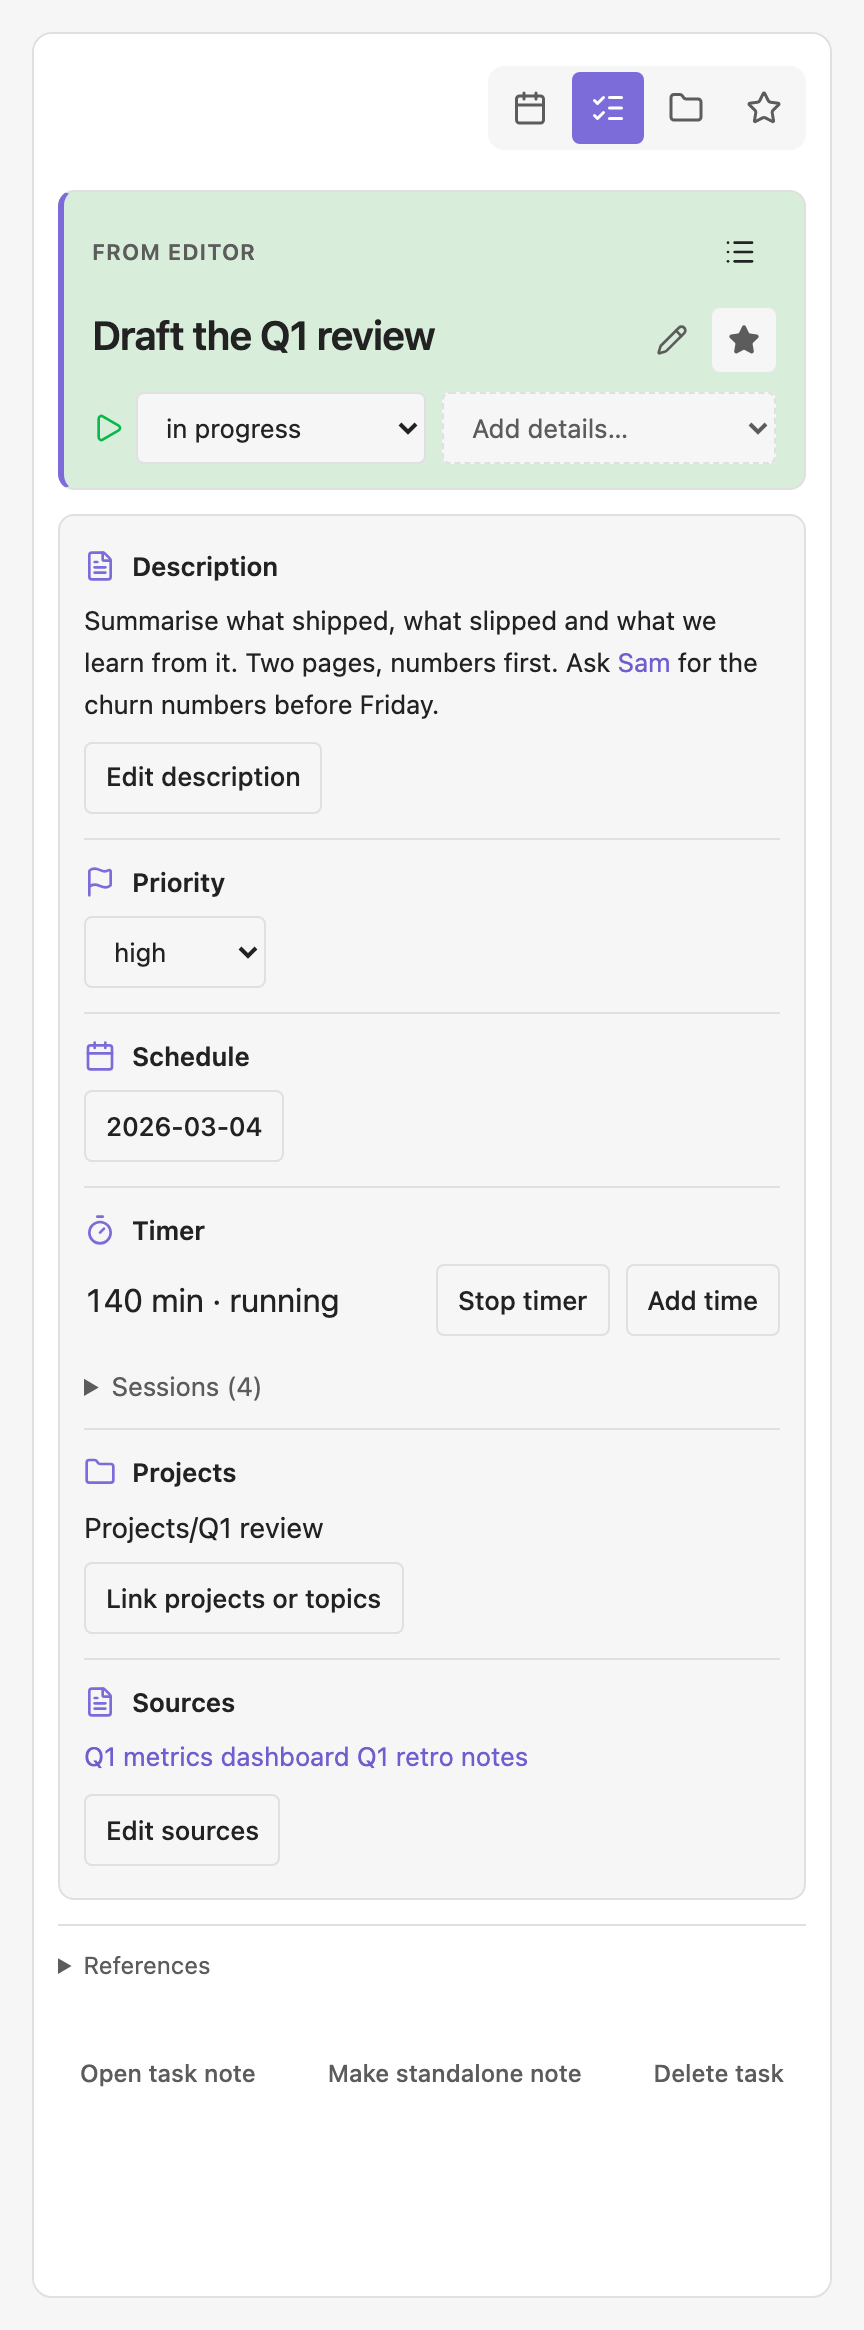
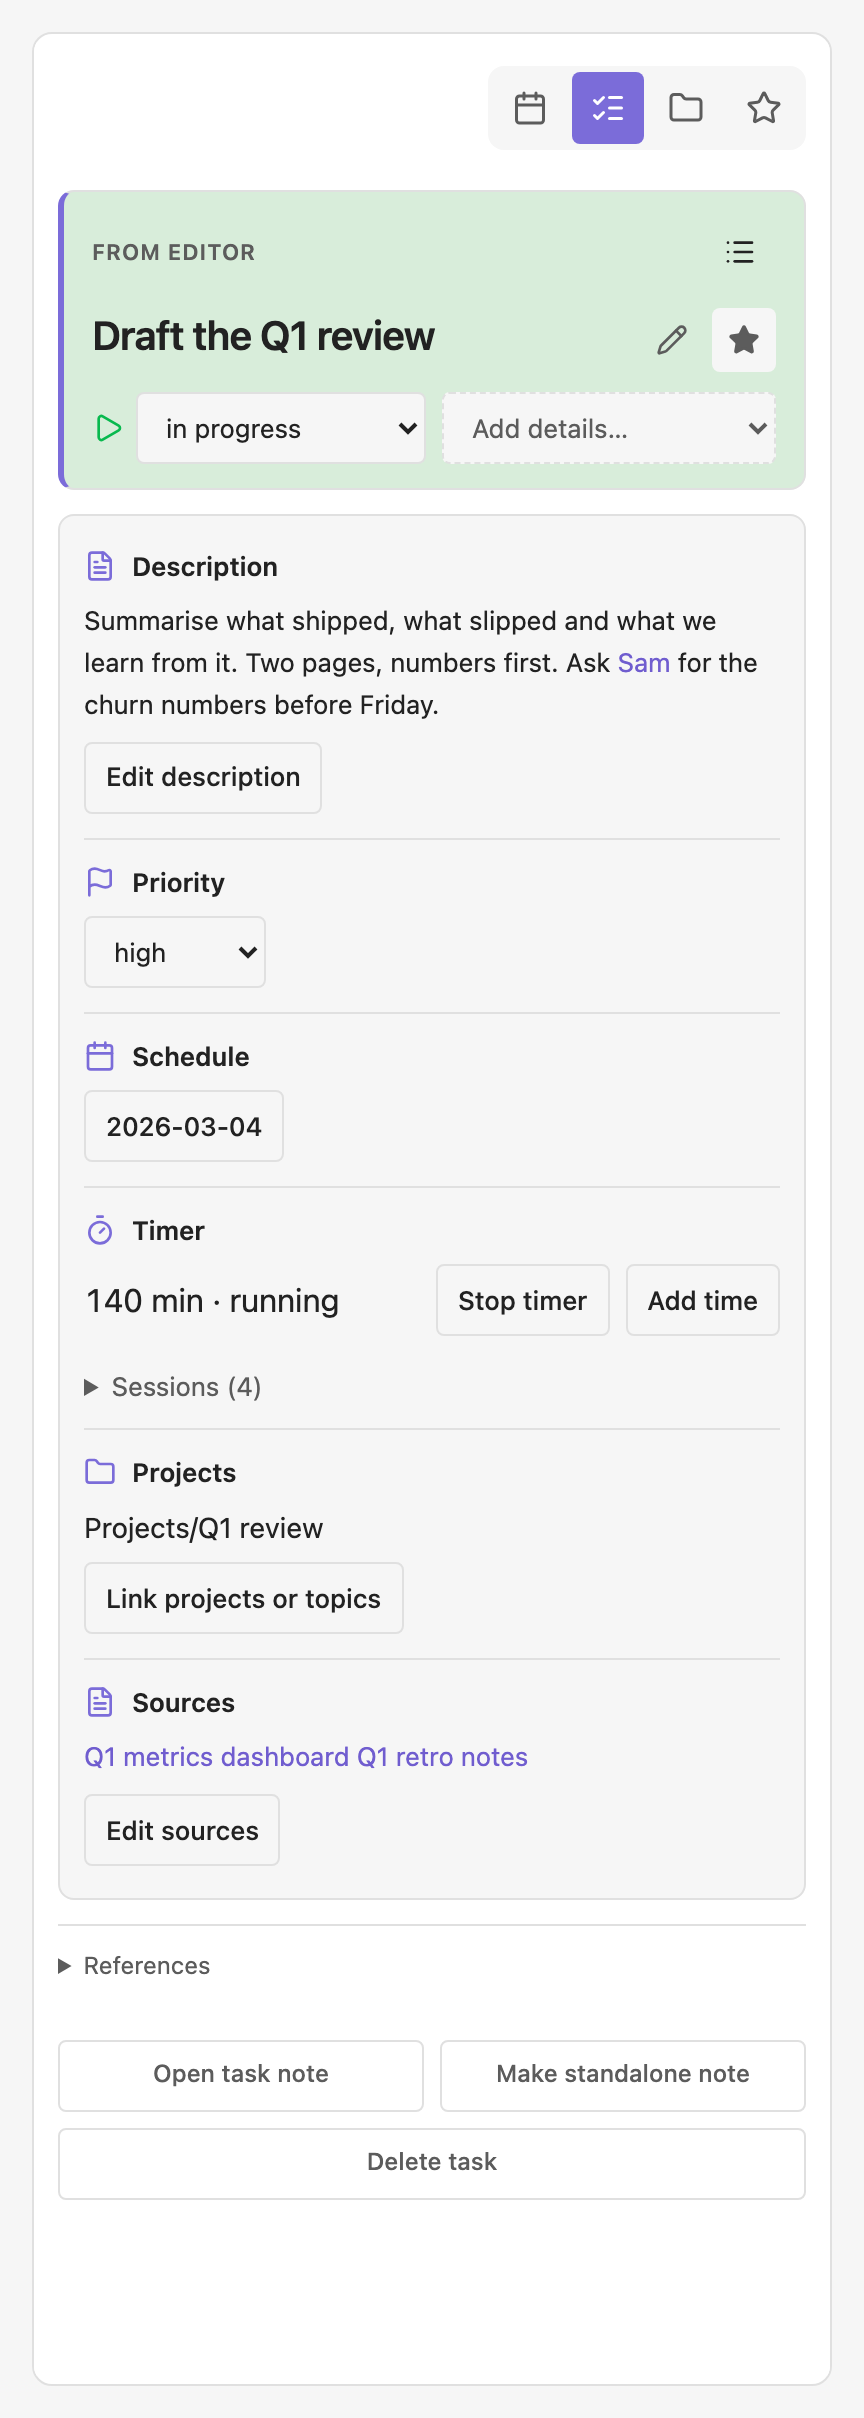
Lay out the task panel's bottom actions in an even grid

diff --git a/styles.css b/styles.css
@@ -149,7 +149,9 @@
 .organized-view .organized-panel button.organized-note-link:hover { color: var(--interactive-accent); }
 .organized-view .organized-panel button.organized-danger { border-color: transparent; color: var(--text-muted); font-size: 12px; }
 .organized-view .organized-panel button.organized-danger:hover { border-color: var(--text-error, #d64545); background: transparent; color: var(--text-error, #d64545); }
-.organized-task-actions { display: flex; flex-wrap: wrap; align-items: center; justify-content: space-between; gap: 8px; padding-block-start: 4px; }
+.organized-task-actions { display: grid; grid-template-columns: repeat(auto-fit, minmax(9.5rem, 1fr)); gap: 8px; padding-block-start: 4px; }
+.organized-view .organized-panel .organized-task-actions button { inline-size: 100%; justify-content: center; text-align: center; border-color: var(--background-modifier-border); }
+.organized-view .organized-panel .organized-task-actions button.organized-danger { grid-column: 1 / -1; }
 .organized-section { display: flex; flex-direction: column; gap: 8px; }
 .organized-section-head { display: flex; align-items: center; justify-content: space-between; gap: 8px; }
 .organized-view .organized-panel button.organized-heading-row { display: flex; align-items: center; gap: 6px; inline-size: 100%; margin: 0; padding: 2px 8px; padding-inline-start: calc(4px + var(--organized-depth, 0) * 14px); border-color: transparent; border-radius: var(--radius-s, 5px); background: transparent; box-shadow: none; color: var(--text-muted); font-size: 12px; font-weight: 600; line-height: 1.3; text-align: start; block-size: auto; min-block-size: 28px; }

diff --git a/CHANGELOG.md b/CHANGELOG.md
@@ -2,6 +2,7 @@
 
 ## Unreleased
 
+- The task panel's bottom actions (Open task note, Make standalone note, Delete task) now sit in an even grid of bordered buttons instead of loose text, with Delete task on its own full-width row.
 - Sorting by priority now keeps every open todo above finished, canceled, forwarded and scheduled ones, including open todos without a priority.
 - **Daily-note polish.**
   - Removing an in-progress todo (its `/` line) no longer asks anything: the timer stops, the time is kept, and a notice says so.
